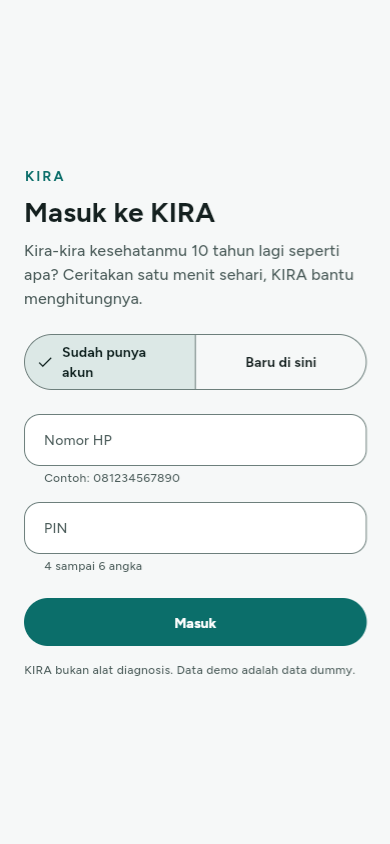
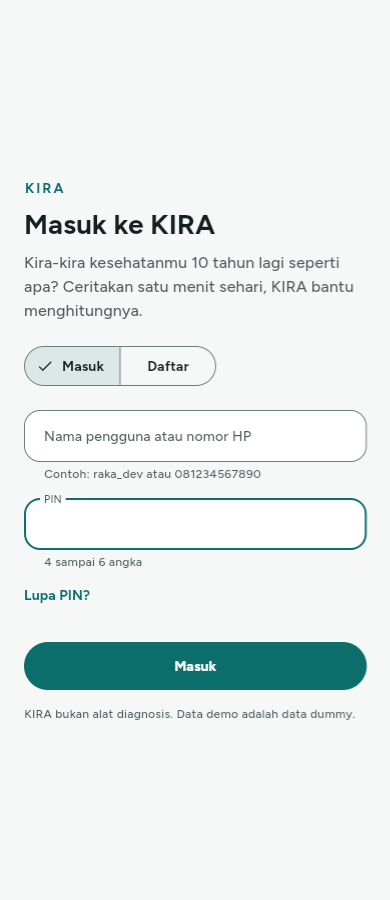
docs: regenerate all screenshots from the current build, remove outdated ones

diff --git a/docs/screenshots/README.md b/docs/screenshots/README.md
@@ -1,7 +1,32 @@
-# Screenshot pengembangan
+# Screenshot
 
-Diambil dari build Flutter web (390x844, ukuran ponsel) terhadap backend lokal dengan persona Raka dan mode demo (data dummy).
-Bukan tangkapan dari emulator Android. Konstanta klinis sudah diverifikasi (lihat `docs/sumber-angka-klinis.md`); angka insidensi per
-kategori FINDRISC bersumber sekunder dan interpolasi antar kategori adalah asumsi tim, jadi persentase di sini adalah perkiraan, bukan hasil klinis.
+Semua berkas di folder ini diambil dari build Flutter web yang sama dengan kode di repositori (390 px lebar, ukuran ponsel),
+terhadap backend lokal dengan persona Raka (data dummy). Folder ini hanya menyimpan tangkapan terbaru: tiap perubahan layar
+berarti tangkapan diambil ulang dan yang lama dihapus. Bukan tangkapan dari emulator atau ponsel Android; layar yang butuh kamera,
+sensor, atau notifikasi hanya bisa dicoba di Android (di web, pindai kode batang memakai ketik nomor, dan notifikasi tidak tersedia).
 
-Fase 2: `07-profile`, `08-doctor-summary`, `09-family`, `10-whatsapp-link`.
+Model bahasa pada `05-chat-checkin` adalah model sungguhan lewat gerbang 9router. Persentase risiko adalah perkiraan, bukan hasil klinis
+(insidensi per kategori FINDRISC bersumber sekunder, interpolasi antar kategori adalah asumsi tim; lihat `docs/sumber-angka-klinis.md`).
+
+| Berkas | Isi |
+|---|---|
+| `01-login` | Masuk dengan nama pengguna atau nomor HP, tautan Lupa PIN |
+| `02-register-consent` | Daftar dengan persetujuan data kesehatan (kotak centang, teks yang bisa dibaca) |
+| `03-reset-pin` | Lupa PIN: kode lewat WhatsApp yang tertaut |
+| `04-consent-gate` | Persetujuan ulang untuk akun lama, tidak bisa dilewati |
+| `05-chat-checkin` | Chat check-in: balasan singkat, kartu "Yang kucatat", chip makanan yang sering dicatat |
+| `06-chat-photo-kinds` | Menu foto: makanan, struk, label gizi, pindai kode batang, hasil cek |
+| `07-projection`, `07b-projection-goals-scenarios` | Layar 10 Tahun dengan dua kurva; versi penuh dengan rekap, target mingguan, slider, dan skenario tersimpan |
+| `08-check-followup` | Saatnya cek dengan pertanyaan "sudah dicek?" dan tombol peta ke tempat cek |
+| `09-bp-protocol-intro`, `10-bp-protocol-active`, `11-bp-reading-sheet`, `12-bp-protocol-done` | Ukur tensi di rumah 7 hari (ESH 2021): panduan, hari ke-6 dengan hari pertama dibuang, catat bacaan, hasil rata-rata |
+| `13-barcode`, `14-barcode-product` | Pindai kode batang; gizi nyata dari Open Food Facts dengan sumbernya |
+| `15-trends` | Tren dengan penanda triase, riwayat skor risiko, dan pola tidur |
+| `16-doctor-summary` | Ringkasan untuk dokter dengan tautan sementara yang bisa dicabut dan tombol PDF |
+| `17-doctor-public-page` | Halaman web yang dibuka dokter lewat tautan, tanpa akun |
+| `18-profile` | Profil dengan menu pengingat dan data dan privasi |
+| `19-family` | Keluarga: undangan dan izin per jenis data |
+| `20-whatsapp-link` | Kode untuk menautkan WhatsApp |
+| `21-health-connect` | Langkah dan tidur dari Health Connect (di web: hanya tersedia di Android) |
+| `22-privacy` | Data dan privasi: riwayat siapa membuka datamu, unduh data, ganti PIN, hapus akun |
+| `23-reminders` | Pengingat lokal, semua mati bawaan |
+| `24-goals` | Target mingguan dengan kemajuan ditulis dengan kata |
